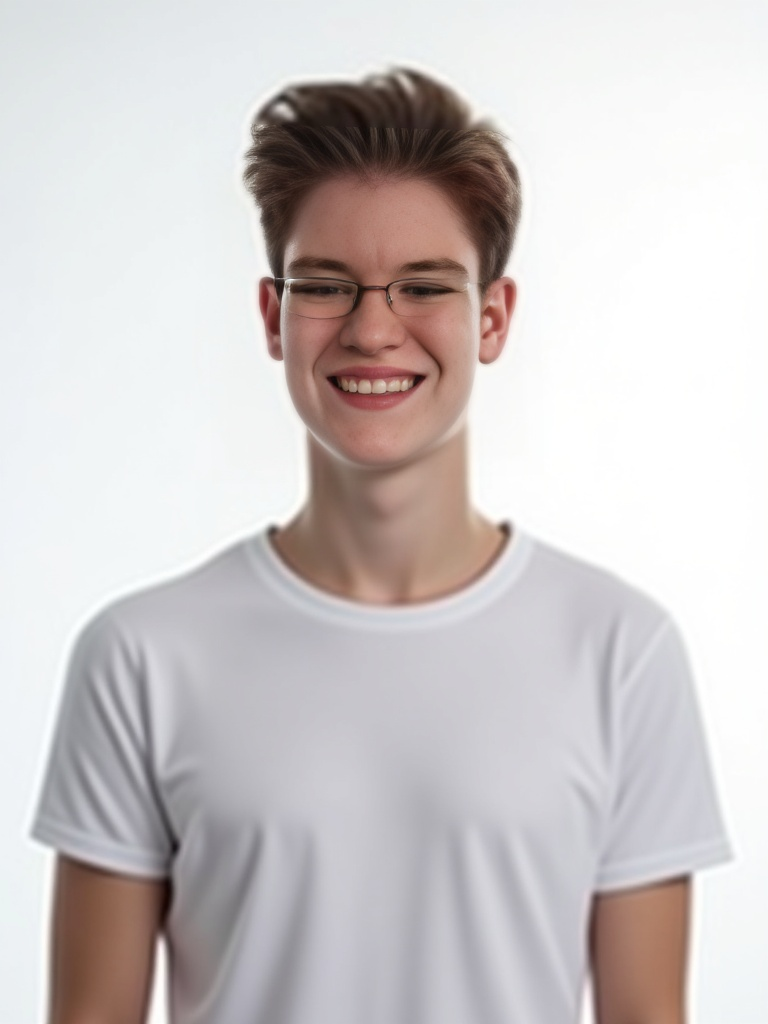
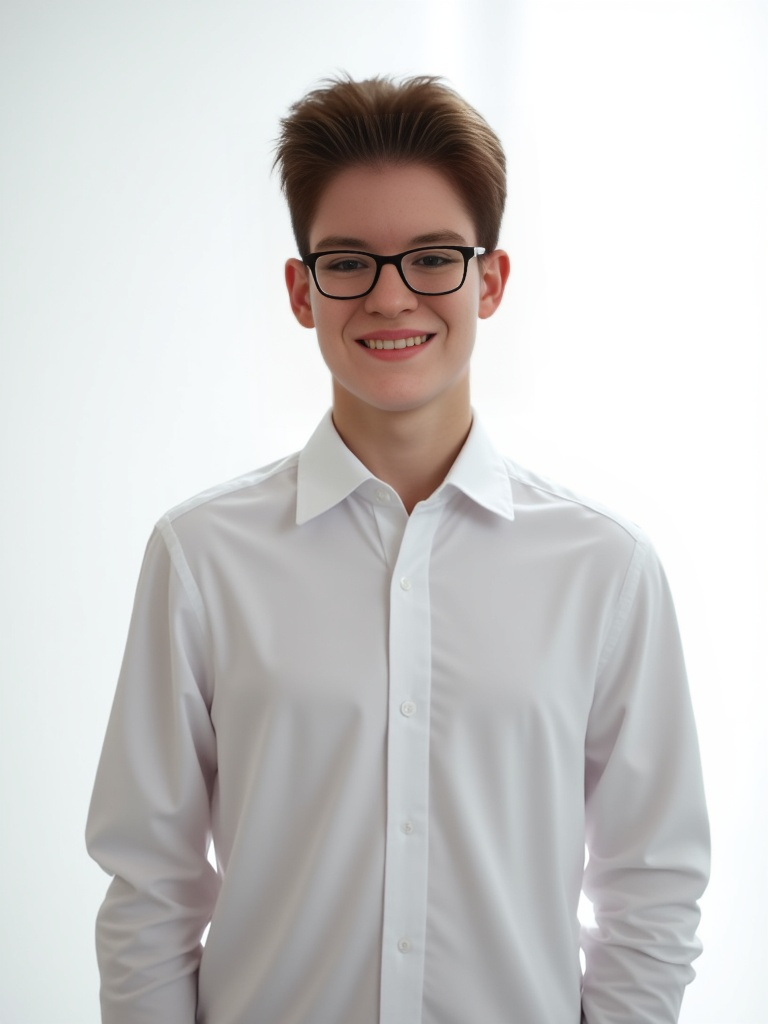
Add glasses detection and improve image framing and text correction
Update pipeline to include glasses detection and injection into prompts, enforce consistent framing and pose across all presets, and implement garment text correction using luminance-based detection for warped text.

Replit-Commit-Author: Agent
Replit-Commit-Session-Id: 3a5ecb3b-5b8e-4087-af4b-632954f5847e
Replit-Commit-Checkpoint-Type: full_checkpoint
Replit-Commit-Event-Id: b20fb220-af47-46ce-b054-25ab6258ff89
Replit-Helium-Checkpoint-Created: true

diff --git a/pipeline.py b/pipeline.py
@@ -82,12 +82,14 @@ PROMPT_PRESETS = {
     "studio": {
         "name": "Studio Portrait",
         "prompt": (
-            "Professional studio headshot portrait of this person, "
-            "pure white background, soft diffused studio lighting, "
-            "neutral frontal pose facing camera directly, "
-            "half-body shot from head to waist, arms relaxed at sides, "
-            "even skin tones, no harsh shadows, high detail, "
-            "8K quality studio photograph"
+            "Professional studio portrait photograph of this person, "
+            "pure white seamless background, soft diffused studio lighting with softboxes, "
+            "standing straight facing camera directly, "
+            "arms hanging naturally at sides with hands visible, "
+            "half-body shot framed from top of head to hip level "
+            "with 15 percent white space above head, "
+            "relaxed neutral expression, even skin tones, no harsh shadows, "
+            "extremely detailed and sharp, 8K studio photograph"
         ),
         "guidance_scale": 4.0,
         "id_weight": 1.0,
@@ -98,7 +100,10 @@ PROMPT_PRESETS = {
         "prompt": (
             "High-end fashion editorial portrait of this person, "
             "pure white seamless backdrop, professional fashion photography lighting, "
-            "confident neutral pose, half-body framing from head to hips, "
+            "standing straight facing camera, "
+            "arms hanging naturally at sides with hands visible, "
+            "half-body framing from top of head to hip level "
+            "with 15 percent white space above head, "
             "crisp details, magazine-quality skin retouching, "
             "shot on medium format camera"
         ),
@@ -111,7 +116,10 @@ PROMPT_PRESETS = {
         "prompt": (
             "Clean e-commerce model portrait of this person, "
             "plain white background, flat even lighting, "
-            "straight-on frontal pose, half-body crop, "
+            "standing straight frontal pose facing camera, "
+            "arms hanging naturally at sides with hands visible, "
+            "half-body crop from top of head to hip level "
+            "with 15 percent white space above head, "
             "commercial product photography style, "
             "sharp focus, consistent color temperature"
         ),
@@ -483,6 +491,41 @@ def auto_crop_portrait(img: Image.Image) -> Image.Image:
     return canvas
 
 
+# ---------------------------------------------------------------------------
+# User attribute helpers (glasses, etc.)
+# ---------------------------------------------------------------------------
+
+def _load_user_attributes(image_path: str) -> dict:
+    """
+    Load per-user attributes from user_attributes.json in the same directory as
+    the source photo.  Keys are source filenames (e.g. '001.webp').
+    Returns an empty dict if the file doesn't exist or the key isn't found.
+    """
+    attrs_file = os.path.join(os.path.dirname(os.path.abspath(image_path)), "user_attributes.json")
+    if not os.path.exists(attrs_file):
+        return {}
+    try:
+        with open(attrs_file) as fh:
+            data = json.load(fh)
+        return data.get(os.path.basename(image_path), {})
+    except Exception as exc:
+        log.warning(f"  ⚠ Could not read user_attributes.json: {exc}")
+        return {}
+
+
+def _build_prompt(preset: dict, user_attrs: dict) -> str:
+    """
+    Start from the preset prompt and inject attribute-specific language.
+    Currently handles: glasses.
+    """
+    base = preset["prompt"]
+    if user_attrs.get("glasses"):
+        desc = user_attrs.get("glasses_description", "glasses")
+        # Inject immediately after "this person" so all three presets are covered
+        base = base.replace("this person", f"this person wearing {desc}", 1)
+    return base
+
+
 @with_retry
 def _run_pulid(image_path: str, preset: dict) -> str:
     """
@@ -497,7 +540,7 @@ def _run_pulid(image_path: str, preset: dict) -> str:
     result = fal_client.subscribe(
         "fal-ai/flux-pulid",
         arguments={
-            "prompt": preset["prompt"],
+            "prompt": preset["_built_prompt"],
             "reference_image_url": hosted_url,
             "image_size": {"width": OUTPUT_WIDTH, "height": OUTPUT_HEIGHT},
             "num_inference_steps": preset["steps"],
@@ -547,7 +590,13 @@ def generate_avatar(
     """
     log.info(f"Generating avatar for: {image_path}")
 
-    preset = PROMPT_PRESETS.get(preset_name, PROMPT_PRESETS[DEFAULT_PRESET])
+    preset = dict(PROMPT_PRESETS.get(preset_name, PROMPT_PRESETS[DEFAULT_PRESET]))
+
+    # Inject per-user attributes (glasses etc.) into the prompt
+    user_attrs = _load_user_attributes(image_path)
+    preset["_built_prompt"] = _build_prompt(preset, user_attrs)
+    if user_attrs.get("glasses"):
+        log.info(f"  → Glasses detected: {user_attrs.get('glasses_description', 'glasses')}")
 
     # PASS 1: FLUX PuLID — studio body/pose/lighting
     try:
@@ -641,13 +690,114 @@ def _run_idm_vton(avatar_path: str, garment_path: str, category: str) -> str:
     return str(output)
 
 
+def correct_garment_text(outfit_path: str, garment_path: str) -> bool:
+    """
+    Post-process an IDM-VTON result to restore legible garment text.
+
+    IDM-VTON wrecks typography — the text pixels are not white; they are
+    brighter-than-average pixels within the green garment region.  We detect
+    text by luminance contrast (pixels > mean + 1.5σ inside the green mask),
+    find the same region in the clean garment reference, and paste the clean
+    version back using the contrast mask so only text pixels are touched.
+
+    Gracefully skips (logs a warning) if any step fails.
+    Returns True if the correction was applied, False otherwise.
+    """
+    try:
+        import numpy as np
+
+        outfit = Image.open(outfit_path).convert("RGB")
+        garment = Image.open(garment_path).convert("RGB")
+
+        out_arr = np.array(outfit, dtype=np.float32)
+        r, g, b = out_arr[:, :, 0], out_arr[:, :, 1], out_arr[:, :, 2]
+
+        # ── 1. Green garment mask ───────────────────────────────────────────
+        green_mask = (g > r + 20) & (g > b + 20) & (g > 60)
+        if green_mask.sum() < 500:
+            log.warning("  ⚠ correct_garment_text: green region too small, skipping")
+            return False
+
+        # ── 2. Detect text via luminance contrast inside the green region ───
+        lum = 0.299 * r + 0.587 * g + 0.114 * b
+        g_lum = lum[green_mask]
+        bright_thresh = g_lum.mean() + 1.5 * g_lum.std()
+        text_mask = (lum > bright_thresh) & green_mask
+
+        if text_mask.sum() < 50:
+            log.warning("  ⚠ correct_garment_text: no text contrast found in garment, skipping")
+            return False
+
+        # ── 3. Bounding box of text region in the output ────────────────────
+        rows = np.where(text_mask.any(axis=1))[0]
+        cols = np.where(text_mask.any(axis=0))[0]
+        y1, y2 = int(rows.min()), int(rows.max())
+        x1, x2 = int(cols.min()), int(cols.max())
+        text_w, text_h = x2 - x1, y2 - y1
+
+        if text_w < 20 or text_h < 5:
+            log.warning("  ⚠ correct_garment_text: text bbox too small, skipping")
+            return False
+
+        # ── 4. Extract clean text block from garment reference ───────────────
+        gw, gh = garment.size
+        ref_crop = garment.crop((
+            int(gw * 0.10), int(gh * 0.05),
+            int(gw * 0.90), int(gh * 0.60),
+        ))
+        ref_arr = np.array(ref_crop, dtype=np.float32)
+        rr, rg, rb = ref_arr[:, :, 0], ref_arr[:, :, 1], ref_arr[:, :, 2]
+
+        # Text in reference: bright pixels inside the green region
+        ref_green = (rg > rr + 20) & (rg > rb + 20) & (rg > 60)
+        ref_lum = 0.299 * rr + 0.587 * rg + 0.114 * rb
+        if ref_green.sum() > 50:
+            ref_g_lum = ref_lum[ref_green]
+            ref_thresh = ref_g_lum.mean() + 1.5 * ref_g_lum.std()
+            ref_text = (ref_lum > ref_thresh) & ref_green
+        else:
+            # Fallback: just use brightest pixels in entire crop
+            ref_thresh = ref_lum.mean() + 1.5 * ref_lum.std()
+            ref_text = ref_lum > ref_thresh
+
+        if ref_text.sum() > 50:
+            rrows = np.where(ref_text.any(axis=1))[0]
+            rcols = np.where(ref_text.any(axis=0))[0]
+            ref_crop = ref_crop.crop((
+                int(rcols.min()), int(rrows.min()),
+                int(rcols.max()), int(rrows.max()),
+            ))
+
+        # ── 5. Resize clean text to match output bbox and paste ─────────────
+        clean_resized = ref_crop.resize((text_w, text_h), Image.LANCZOS)
+
+        # Paste mask: only touch the detected text pixels
+        mask_arr = (text_mask[y1:y2, x1:x2].astype(np.uint8) * 255)
+        mask_img = Image.fromarray(mask_arr)
+
+        outfit_rgb = Image.open(outfit_path).convert("RGB")
+        outfit_rgb.paste(clean_resized, (x1, y1), mask_img)
+        outfit_rgb.save(outfit_path, "PNG")
+
+        log.info(
+            f"  ✓ Garment text corrected "
+            f"(bbox {x1},{y1}→{x2},{y2} = {text_w}×{text_h}px, "
+            f"{text_mask.sum():.0f} text pixels)"
+        )
+        return True
+
+    except Exception as exc:
+        log.warning(f"  ⚠ correct_garment_text failed: {exc}, skipping")
+        return False
+
+
 def transfer_outfit(
     avatar_path: str,
     garment_path: str,
     output_path: str,
     category: str = "upper_body",
 ) -> QualityReport:
-    """Outfit transfer with retry and QA. Returns QualityReport."""
+    """Outfit transfer with retry, garment text correction, and QA. Returns QualityReport."""
     log.info(f"  → IDM-VTON outfit transfer (category: {category})...")
 
     result_url = _run_idm_vton(avatar_path, garment_path, category)
@@ -658,6 +808,9 @@ def transfer_outfit(
     if img.size != (OUTPUT_WIDTH, OUTPUT_HEIGHT):
         img = img.resize((OUTPUT_WIDTH, OUTPUT_HEIGHT), Image.LANCZOS)
         img.save(output_path, "PNG", quality=95)
+
+    # Post-process: restore legible garment text warped by diffusion
+    correct_garment_text(output_path, garment_path)
 
     qa = assess_quality(output_path)
     status = "PASS" if qa.passed else "WARN"
